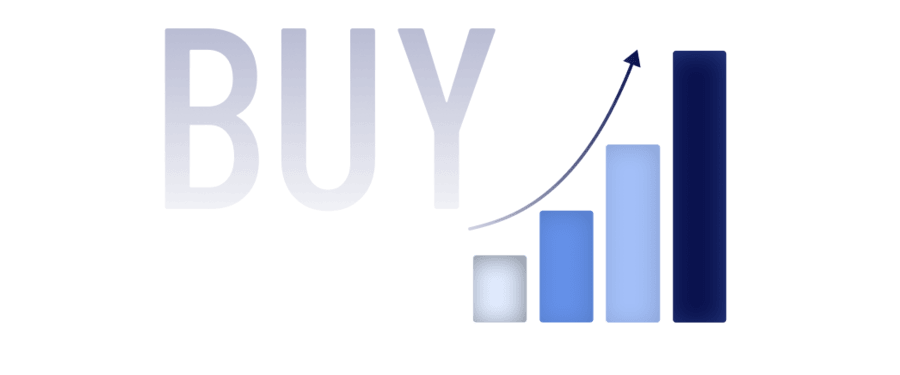
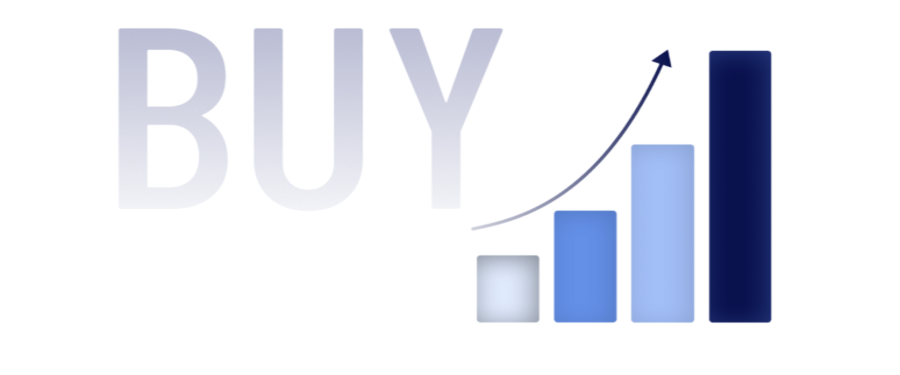
BuySellNewRes 🔪

diff --git a/README.md b/README.md
@@ -1,9 +1,8 @@
 "# Ardent_HTML_NEW" 
 # todos 
+
 # Transparency-image-size on services page
 
 # Grow expand exit to emphasize more
-
-# everything needs to be zoomed out
 
 ## Jonathon ki photo
